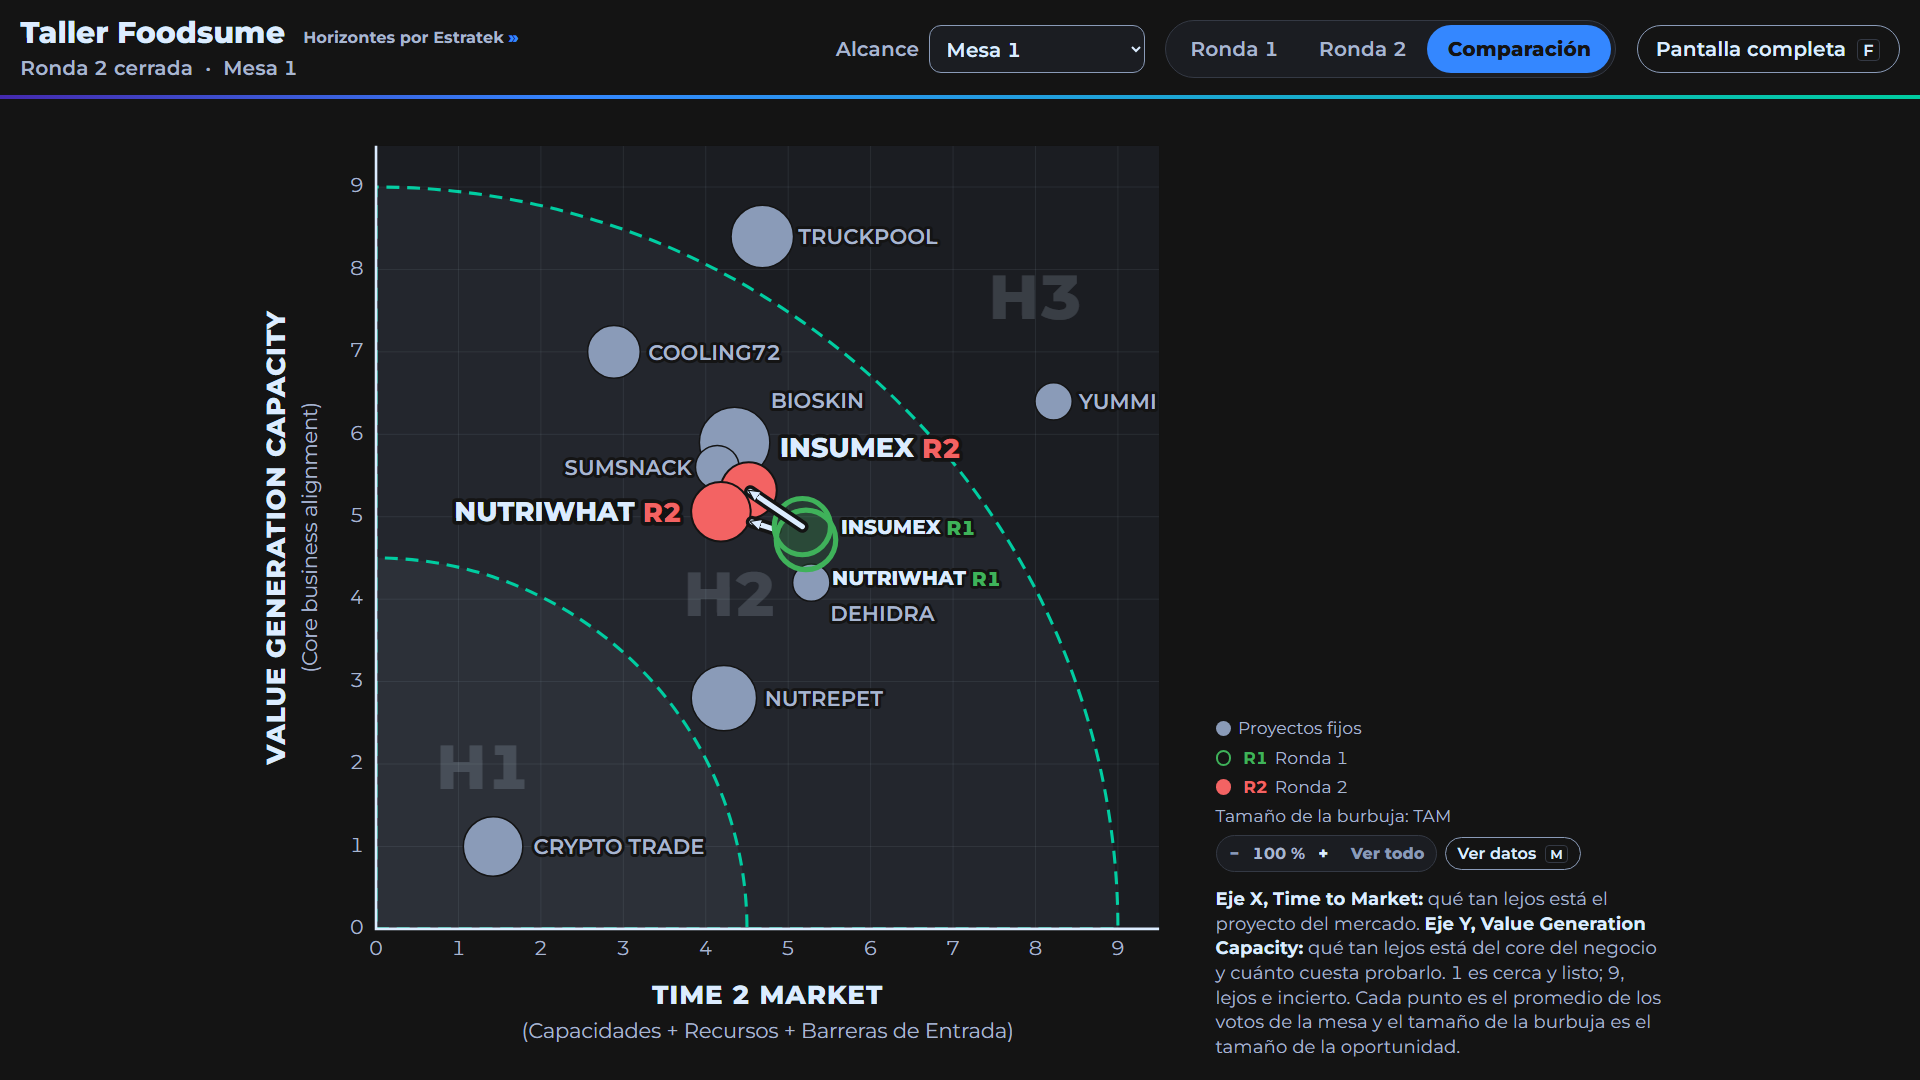
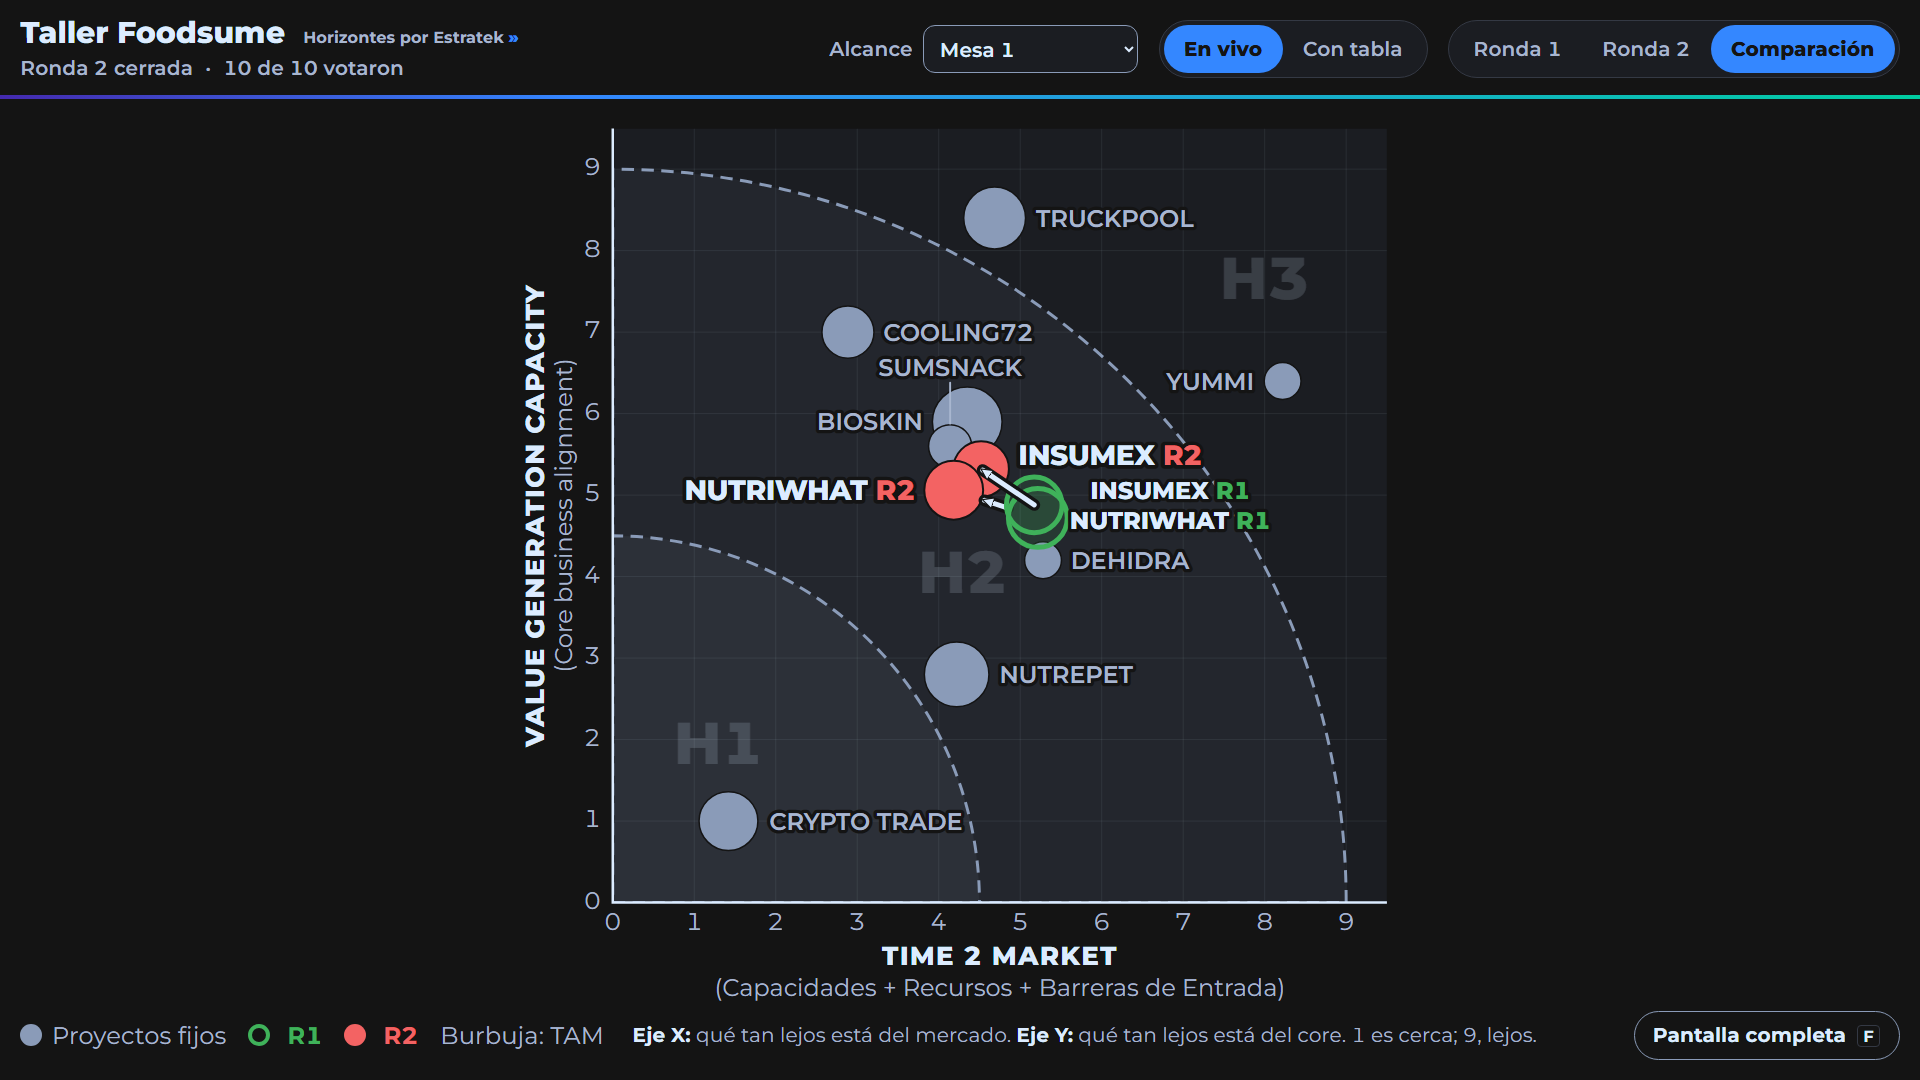
docs(tablero): decisiones de la QA, modos de proyección en la guía y capturas regeneradas

diff --git a/docs/DECISIONES.md b/docs/DECISIONES.md
@@ -378,3 +378,20 @@ Reglas del pedido: nada existente se rompe (S1); ningún token de diseño se ren
 - 2026-10-19 [Panel] Una sola acción principal por vista. Sala en vivo: primario solo el paso que sigue (la primera acción posible que no pide confirmación); Reiniciar votos y Cerrar sala en rojo; el resto en contorno. Salas: «Crear sala» primario y «Abrir» secundario. Mesas y QR: «Agregar»; «Proyectar QR» pasa a secundario. Configuración: «Programar» pasa a secundario (eran 6 primarios) y queda «Guardar» de rúbricas. Exportar: las dos descargas en secundario (ninguna manda sobre la otra). Desactivar participante o admin pasa a secundario: es reversible y una columna de botones rojos tapaba la tabla; el rojo queda para lo que borra o cierra.
 - 2026-10-19 [Panel] KPI arriba: Sala en vivo muestra 4 cifras (ronda, inscritos, completaron, mesas) antes del precierre y del control; lo programado y los atajos (tablero, configuración, mesas) pasan al panel de control. Salud muestra 3 (servidor, p95, última). Salud ya no pinta «Con problemas» con la insignia verde.
 - 2026-10-19 [Panel] `QA-tests/recorrido_admin.cjs` revisa además el login, Salud y Administradores, y que el foco con teclado tenga contorno de 2 px en el login y en la barra.
+
+## 2026-10-20 · Correcciones de la QA y modos de proyección · Tablero (rama fix/qa-tablero)
+- 2026-10-20 [Tablero] **Dos modos de proyección** (pedido de Nicolai): `?modo=vivo` (por defecto) y `?modo=tabla`, para que el panel enlace a cada uno. En vivo: solo la matriz, a todo el ancho y el alto bajo el encabezado (firma, sala, ronda, «N de M votaron» y la insignia), con la leyenda en una línea y la explicación breve de los ejes al pie solo si cabe entera (en 1920). Con tabla: la matriz y al lado el progreso y los promedios por criterio (o «Cómo votó», tecla D). Selector «En vivo | Con tabla» en el encabezado; teclas V, T y M (alterna); Esc pasa a la tabla; un clic sin arrastre en la matriz alterna. Integra la «matriz sola por defecto» del 19-oct: es el modo en vivo. Con cada foto nueva (D2) las burbujas que cambiaron se deslizan desde su posición anterior (0,9 s; `animarCambios` de `MatrizHorizontes`, apagado en el celular y el panel) y sus nombres aparecen al llegar. Respeta `prefers-reduced-motion`.
+- 2026-10-20 [Tablero] **Pantalla completa en lugar del zoom** (pedido de Paola): se retiran el zoom por porcentaje (botones −, + y «Ver todo», el indicador, rueda, pellizco, arrastre y las teclas +, − y 0) y la prop `encuadre` de `MatrizHorizontes` (nadie más la usaba). F o el botón «Pantalla completa» ponen el modo elegido en la pantalla completa del navegador (Fullscreen API sobre el `<main>` del tablero) sin los controles del encabezado; el diagrama, texto incluido, crece con el lienzo. F, Esc o el mismo botón salen; en pantalla completa Esc no cambia de modo. Sin la API, igual se ocultan los controles.
+- 2026-10-20 [Tablero] QA-T-01, letra de proyector: `MatrizHorizontes` acepta `letraMin` y el tablero pasa 20 px en 1280 y 24 px en 1920 (interpola entre ambos; sin mínimo bajo 1100 px). Marcas, subtítulos y nombres de fijos y de R1 no bajan de ese valor; títulos y nombres de los vivos van un 10 a 15 % más. Los márgenes de la matriz se calculan con la letra real. En un lienzo chico (muchas mesas) el mínimo se limita a un 26avo del lado. Leyenda en `max(20px, 1,2em)`. Con la tabla abierta la matriz conserva la letra y su alto (la leyenda va en una línea y los botones pasan a la fila del panel).
+- 2026-10-20 [Tablero] QA-T-02: en el modo en vivo la matriz ocupa todo el ancho (1880 px en 1920) y la leyenda va al pie, en letra de proyector, en vez de una columna estrecha a la derecha.
+- 2026-10-20 [Tablero] QA-T-08 y QA-P-06 (celular): los nombres se colocan en la caja libre más cercana a su burbuja (16 posiciones por anillo, el costo suma la distancia); si quedan apartados, una guía fina los une a su burbuja. Dos vivos en el mismo punto y ronda llevan un rótulo de dos líneas («INSUMEX R1» y «NUTRIWHAT R1»): se lee que son dos. La marca de agua H1, H2 y H3 se corre dentro de su horizonte si un nombre cae encima (es decoración).
+- 2026-10-20 [Tablero] QA-T-03: «Cómo votó» usa una sola escala para todo el bloque (la ronda con más votos llena la pista): el mismo conteo tiene la misma altura en R1, R2 y en los dos proyectos. Las barras de R1 siguen huecas, con borde de 3 px y un tinte suave del verde, legibles en el proyector. Afecta también al panel (Sala en vivo).
+- 2026-10-20 [Tablero] Descripción corta de cada criterio (pedido de Paola): `web/shared/criterios.ts` (`DESCRIPCION_CRITERIO`, máximo 100 caracteres, con prueba) es la fuente única. El tablero la muestra bajo el nombre del criterio en la tabla del proyector y en el panel por proyecto del tablero en el celular; en «Cómo votó» va en el título del criterio porque en 1280×720 no cabe sin tapar las barras. En 1280×720 el progreso del panel queda en una línea (las cifras ya están en el encabezado) y el título «Promedios por criterio» solo para el lector de pantalla, para que la tabla quepa sin desplazar.
+- 2026-10-20 [Tablero] La explicación de tres líneas de C19-7 se reemplaza por la breve del pie («Eje X: qué tan lejos está del mercado. Eje Y: qué tan lejos está del core. 1 es cerca; 9, lejos.»): Nicolai pidió solo la gráfica en el modo en vivo y en el modo con tabla no cabía junto a las descripciones.
+- 2026-10-20 [Tablero] D2 (fotos de 3 en 3): la insignia dice «En vivo, cada 3 votos» (título: se actualiza cada 3 votos nuevos y queda exacto al cerrarla); el modo con tabla dice «Se actualizan cada 3 votos nuevos.» con la ronda abierta; el estado vacío de la ronda en curso dice «Aún no hay resultados en la ronda N. Se actualizan cada 3 votos nuevos» (no se afirma que no haya votos: puede haberlos fuera de la foto). «N de M votaron» sale del progreso, que sigue en vivo. Constante `VOTOS_POR_FOTO` en `logica.ts`.
+- 2026-10-20 [Tablero] F-12: «Hacen falta al menos N votos» (con 1, «Hace falta al menos 1 voto») en el tablero y en «Cómo votó» (que también usa el panel); guía del facilitador al día. La prueba `web/admin/admin.real.test.tsx` esperaba el texto anterior de «Cómo votó» y queda para el panel.
+- 2026-10-20 [Tablero] F-13: `<desc>` y los títulos de las burbujas con coma decimal (6,33); la animación (reglas y `@keyframes`) va limitada al SVG por su id.
+- 2026-10-20 [Tablero] F-4 queda sin objeto: sin zoom, nada se come las flechas con la pregunta guiada en pantalla.
+- 2026-10-20 [Tablero] QA-T-04: en «Todas las mesas» el conteo de cada mesa dice de qué ronda es y es el de la vista («R1: 2 de 2», en Comparación «R1: 2 de 2 · R2: 0 de 2»): la ronda en curso usa el progreso y una cerrada los votos de la respuesta de la mesa. Al pasar a todas las mesas se quita `mesa` de la URL. QA-T-05: un 404 `MESA_NO_EXISTE` dice «No encontramos esta mesa en la sala.». QA-T-06 y QA-T-07: sin zoom no hay foco perdido ni arrastre; el clic, M y T abren la tabla siempre en «Promedios». QA-T-09: el progreso no lista mesas sin inscritos. QA-T-10: la franja de la ronda 1 es un aro verde (hueco) al ancho de su texto; la de la ronda 2 sigue sólida. QA-T-11: sin pistas de teclas en celular y pantallas táctiles. QA-T-12: el rótulo «Alcance» siempre visible (cabe sin el botón de pantalla completa en el encabezado).
+- 2026-10-20 [Tablero] Encabezado: mientras el selector de alcance está a la vista, la línea de estado no repite el alcance (en 1280 partía en dos líneas); sin token o en pantalla completa, sí. Revisión con la regla de pulcritud del 20-oct: el tablero es una vista de proyección, así que ocupa el 100 % en todos los anchos (sin `--hz-ancho-pagina`); no tiene acción primaria (los segmentos son selectores y «Pantalla completa» va en contorno); sin desborde en 360, 768, 1280 y 1920 (la prueba en navegador lo mide); cargando, error y vacío con los mismos estilos de antes.
+- 2026-10-20 [Tablero] Pruebas: `e2e/navegador.test.ts` mide en 1280×720, 1366×768 y 1920×1080 la letra efectiva de la matriz y de la leyenda en los dos modos y en pantalla completa (20 y 24 px), que la matriz del modo en vivo ocupe toda el área, que los nombres no se solapen, no tapen la marca de agua y queden a menos de tres letras de su burbuja (con guía si se apartan), y suma 768×1024 a los anchos sin desborde. Capturas de `docs/capturas` regeneradas con los dos modos (13 a 16 nuevas).

diff --git a/docs/GUIA_FACILITADOR.md b/docs/GUIA_FACILITADOR.md
@@ -13,9 +13,12 @@ Una página. Lo que tienes que hacer, en orden, para que el taller corra sin sus
 8. Ensayo de 5 minutos: en **Salas** usa *Duplicar para ensayo*, escanea un QR de la copia, inscríbete, vota y mira el tablero. La sala real queda limpia.
 
 ## En el salón
-- Proyector: abre el tablero desde **Sala en vivo** (*Abrir tablero de la sala*, ya trae su token). El público ve solo la matriz. Tecla **F** para pantalla completa; **1**, **2** y **C** cambian entre ronda 1, ronda 2 y comparación.
-- Datos: un clic en la matriz, el botón *Ver datos* o la tecla **M** muestran el panel con el progreso y los promedios; otro clic o **M** vuelven a la matriz sola, y **Esc** vuelve a los datos. **D** abre *Cómo votó* (dispersión) y alterna con *Promedios*.
-- Zoom: **+** y **−** acercan y alejan, **0** vuelve a ver toda la matriz y las flechas la mueven. También con los botones bajo la matriz, la rueda del mouse, el pellizco o arrastrando.
+- Proyector: abre el tablero desde **Sala en vivo** (*Abrir tablero de la sala*, ya trae su token). Elige el modo de proyección según el evento con el selector del encabezado (queda en el enlace como `modo=vivo` o `modo=tabla`):
+  - **En vivo** (tecla **V**, el de siempre): solo la matriz, a todo el ancho. Las burbujas se deslizan cada vez que llega una actualización; con la ronda abierta el resultado se renueva cada 3 votos nuevos y al cerrarla queda exacto. Arriba, la sala, la ronda y cuántos ya votaron.
+  - **Con tabla** (tecla **T**): la matriz y, al lado, el progreso y los promedios por criterio con una descripción corta de cada uno. **D** cambia los promedios por *Cómo votó* (dispersión) y vuelve.
+  - **M** o un clic en la matriz alternan los dos modos; **Esc** pasa a *Con tabla*.
+- **Pantalla completa** (botón o tecla **F**): el modo elegido llena la pantalla, sin los controles. **F**, **Esc** o el mismo botón salen. **1**, **2** y **C** cambian entre ronda 1, ronda 2 y comparación también ahí.
+- Ya no hay zoom por porcentaje: para ver la matriz más grande, usa la pantalla completa.
 - Modo guiado: mientras la ronda está abierta, el tablero muestra en grande la pregunta que elijas en **Sala en vivo** en lugar de la matriz. Quita la pregunta o cierra la ronda para volver a la matriz.
 - Wi-Fi: confirma que el celular de alguien de la sala abre el QR antes de empezar.
 
@@ -35,14 +38,14 @@ Una página. Lo que tienes que hacer, en orden, para que el taller corra sin sus
 
 **Respuestas por persona.** La sección **Respuestas** muestra qué calificó cada persona en cada ronda y proyecto, con filtros por mesa y ronda. Igual que **Participantes**, es solo para administradores: **no la proyectes**. Los tableros y los celulares solo muestran promedios anónimos.
 
-**Cómo leer los resultados.** La tabla trae el promedio de los 6 criterios (sin fila Total desde la preentrega del 19-oct). La matriz sigue ubicando cada proyecto con sus dos ejes. Con **menos de 3 votos** en una mesa o ronda no se muestran promedios ("Hace falta al menos 3 votos..."): así nadie deduce el voto de otro.
+**Cómo leer los resultados.** La tabla trae el promedio de los 6 criterios (sin fila Total desde la preentrega del 19-oct). La matriz sigue ubicando cada proyecto con sus dos ejes. Con **menos de 3 votos** en una mesa o ronda no se muestran promedios ("Hacen falta al menos 3 votos..."): así nadie deduce el voto de otro.
 
 La conversación buena está en la dispersión, y para eso está **Cómo votó la sala** (tecla **D** en el tablero, solo para ti, o el bloque del mismo nombre en **Sala en vivo**): cuántos votos tuvo cada valor 1, 3, 5, 7 y 9 en cada criterio, R1 en verde hueco y R2 en rojo sólido. La matriz sigue a la vista.
 
 Cuándo usarlo en la plenaria:
 - **Al cerrar la ronda 1**, después de mirar la matriz: busca el criterio con votos en los dos extremos (1 y 9) y pregunta qué sabía cada perfil que los demás no. Si quieres ver la información de un perfil, ábrela en **Hojas** del panel (las 6 hojas de cada proyecto, aunque los celulares todavía no las muestren).
 - **Al cerrar la ronda 2**, en Comparación: muestra si la mesa se juntó (los votos se agrupan en uno o dos valores) o si sigue partida, y qué cambió entre el verde y el rojo.
-- Con alcance de una mesa, cada empresa ve su propia dispersión. Con menos de 3 votos no aparece ("Hace falta al menos 3 votos..."): nadie deduce el voto de otro.
+- Con alcance de una mesa, cada empresa ve su propia dispersión. Con menos de 3 votos no aparece ("Hacen falta al menos 3 votos..."): nadie deduce el voto de otro.
 
 ## Si algo pasa
 - **Alguien cambió de celular o borró la sesión:** que vuelva a escanear el QR y use *Ya me inscribí: recuperar mi sesión* con el mismo correo. Conserva su mesa, perfil y votos.

diff --git a/docs/capturas/README.md b/docs/capturas/README.md
@@ -1,6 +1,6 @@
 # Capturas de referencia del tablero
 
-Para la guía del facilitador. Con los cambios del acta del 16-oct: ronda 1 en verde (aro hueco, «R1»), ronda 2 en rojo (burbuja sólida, «R2»), franja de la fase mientras una ronda está abierta y tabla con los 6 criterios y la fila «Total» (eje X + eje Y, del servidor). Datos: la prueba sintética del golden (20 personas, 2 mesas) en una sala llamada "Taller Foodsume". Desde el 19-oct, en el tema carbón de la familia Estratek: firma «Horizontes por Estratek »» y línea del degradado bajo el encabezado, horizontes en superficies carbón escalonadas y fijos en gris azulado. Se regeneran con:
+Para la guía del facilitador. Con los cambios del acta del 16-oct: ronda 1 en verde (aro hueco, «R1»), ronda 2 en rojo (burbuja sólida, «R2»), franja de la fase mientras una ronda está abierta y tabla con los 6 criterios (sin fila «Total» desde el 19-oct). Datos: la prueba sintética del golden (20 personas, 2 mesas) en una sala llamada "Taller Foodsume". Desde el 19-oct, en el tema carbón de la familia Estratek: firma «Horizontes por Estratek »» y línea del degradado bajo el encabezado, horizontes en superficies carbón escalonadas y fijos en gris azulado. Se regeneran con:
 
 ```bash
 HZ_E2E_ESPERA_MS=0 HZ_CAPTURAS_GUIA=docs/capturas npx vitest run web/tablero/e2e -t "capturas de referencia"
@@ -11,14 +11,20 @@ HZ_E2E_ESPERA_MS=0 HZ_CAPTURAS_GUIA=docs/capturas npx vitest run web/tablero/e2e
 | `01-ronda-1.png` | Matriz con la posición de la ronda 1 (tecla 1) | Al cerrar la ronda 1 |
 | `02-ronda-2.png` | Matriz con la posición de la ronda 2 (tecla 2) | Durante y al cerrar la ronda 2 |
 | `03-comparacion.png` | R1 hueco verde, R2 sólido rojo y flecha del movimiento (tecla C) | Sola al cerrar la ronda 2, con la animación R1 a R2 |
-| `04-preliminar.png` | Ronda 1 abierta con todos ya votados: franja verde «Ronda 1 · individual y en silencio», insignia "Preliminar" y avisos de mesas completas | Antes de que el facilitador cierre la ronda |
+| `04-preliminar.png` | Ronda 1 abierta con todos ya votados: franja con aro verde «Ronda 1 · individual y en silencio» e insignia "Preliminar" | Antes de que el facilitador cierre la ronda |
 | `05-todas-las-mesas.png` | Una matriz por mesa (alcance "Todas las mesas") | Para comparar equipos |
-| `06-proyector-pantalla-completa.png` | Pantalla completa (tecla F): sin controles, con el nombre de la vista | En el proyector |
+| `06-proyector-pantalla-completa.png` | Pantalla completa (tecla F): sin controles; quedan la firma, la sala, la ronda, la vista y los votos recibidos | En el proyector |
 | `07-proyector-1280x720.png` | Proyector de 1280×720: todo cabe sin desplazar | Proyectores de baja resolución |
 | `08-mesa-1.png` | Alcance de una sola mesa | Para mostrar a una mesa su resultado |
 | `09-celular-360.png` | Celular de 360 px (página completa) | Si alguien abre el tablero en el celular |
-| `10-ronda-2-abierta.png` | Ronda 2 abierta: franja roja «Ronda 2 · discusión en la mesa» y tabla R1/R2 con «Total» | Durante la ronda 2 |
-| `11-minimo-de-votos.png` | Mesa con menos de 3 votos: «Hace falta al menos 3 votos para mostrar esta mesa» y «Faltan votos» en la tabla | Al empezar una ronda, mientras la mesa vota |
+| `10-ronda-2-abierta.png` | Ronda 2 abierta: franja roja «Ronda 2 · discusión en la mesa» e insignia «En vivo, cada 3 votos» | Durante la ronda 2 |
+| `11-minimo-de-votos.png` | Mesa con menos de 3 votos: «Hacen falta al menos 3 votos para mostrar esta mesa» | Al empezar una ronda, mientras la mesa vota |
 | `12-celular-360-ronda-2.png` | Celular de 360 px con la ronda 2 abierta (página completa) | Si alguien abre el tablero en el celular |
+| `13-con-tabla.png` | Modo con tabla (`modo=tabla`): matriz, progreso y promedios por criterio con su descripción corta | Para discutir los criterios |
+| `14-con-tabla-1280x720.png` | Modo con tabla en un proyector de 1280×720: todo cabe sin desplazar | Proyectores de baja resolución |
+| `15-como-voto.png` | «Cómo votó la sala» (tecla D): conteos 1-3-5-7-9 en una sola escala para R1 y R2 | Para la plenaria |
+| `16-proyector-1280x720-pantalla-completa.png` | Modo en vivo en pantalla completa a 1280×720 | Proyectores de baja resolución |
 
-Atajos del proyector: F pantalla completa, 1 ronda 1, 2 ronda 2, C comparación.
+Las capturas 01 a 12 van en el modo en vivo (`modo=vivo`, el de defecto): solo la matriz, a todo el ancho, con la letra de proyector (20 px como mínimo en 1280×720 y 24 px en 1920×1080).
+
+Atajos del proyector: F pantalla completa, V en vivo, T con tabla, M alterna los modos, D «Cómo votó», 1 ronda 1, 2 ronda 2, C comparación.
